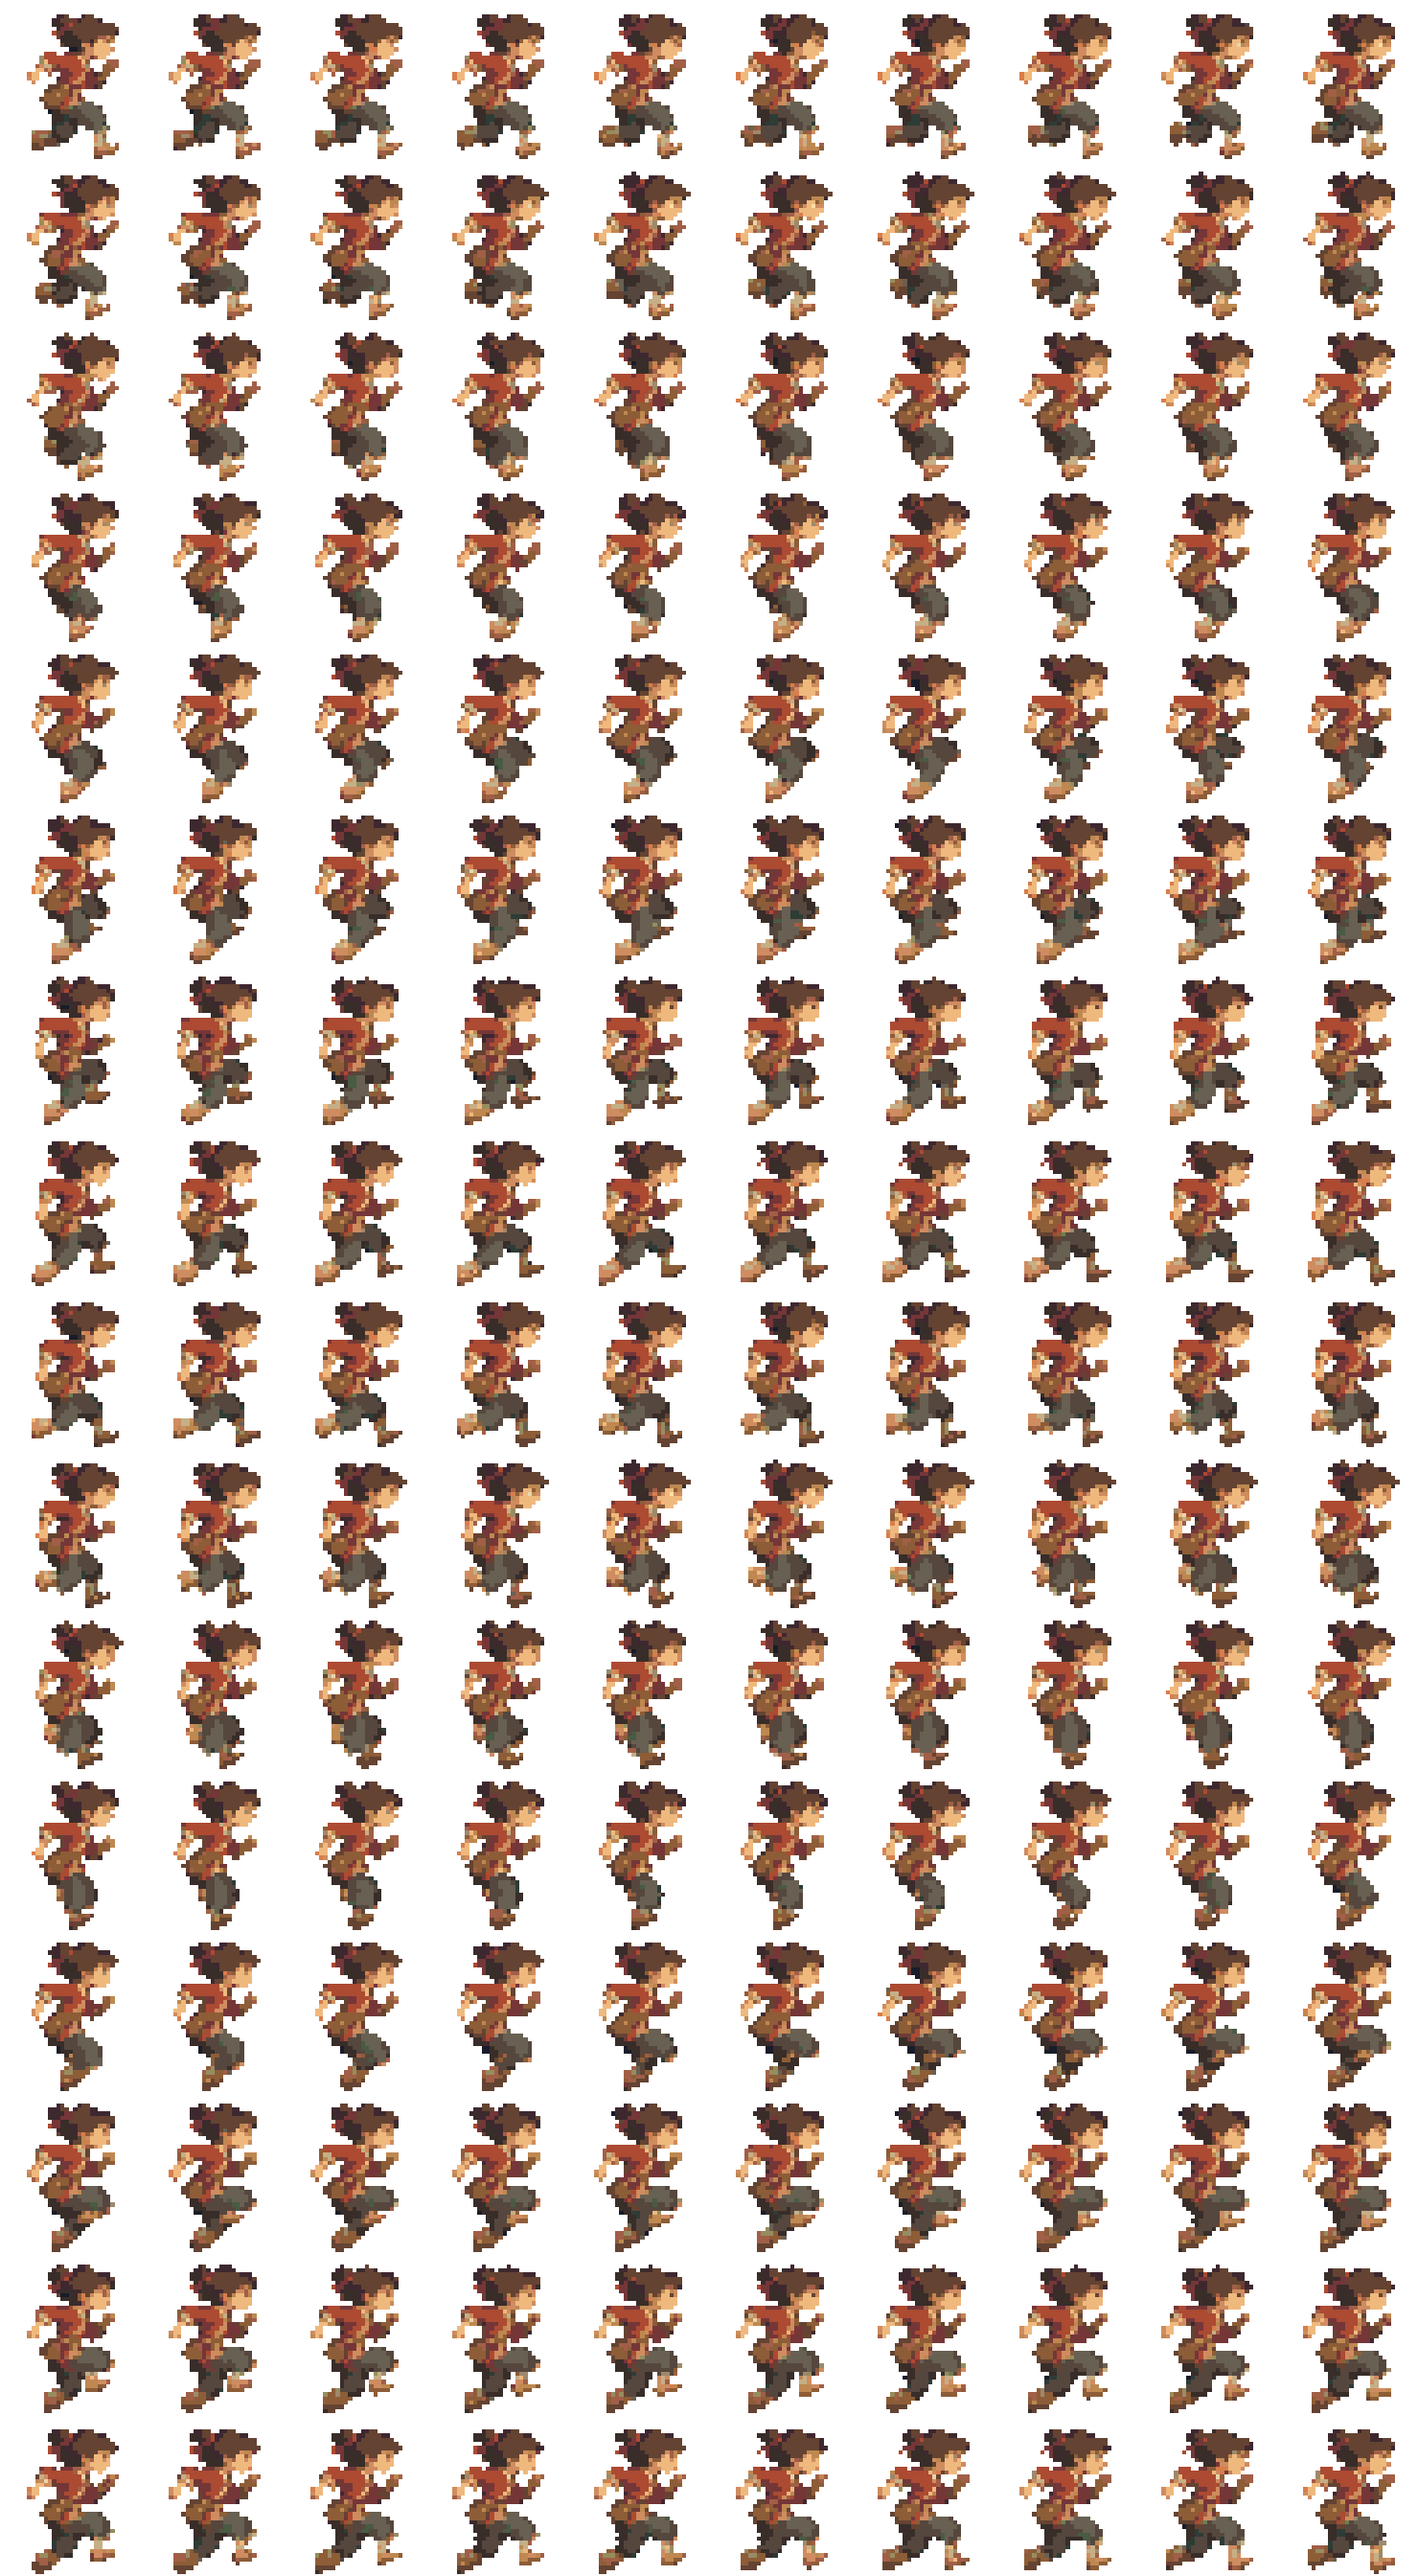
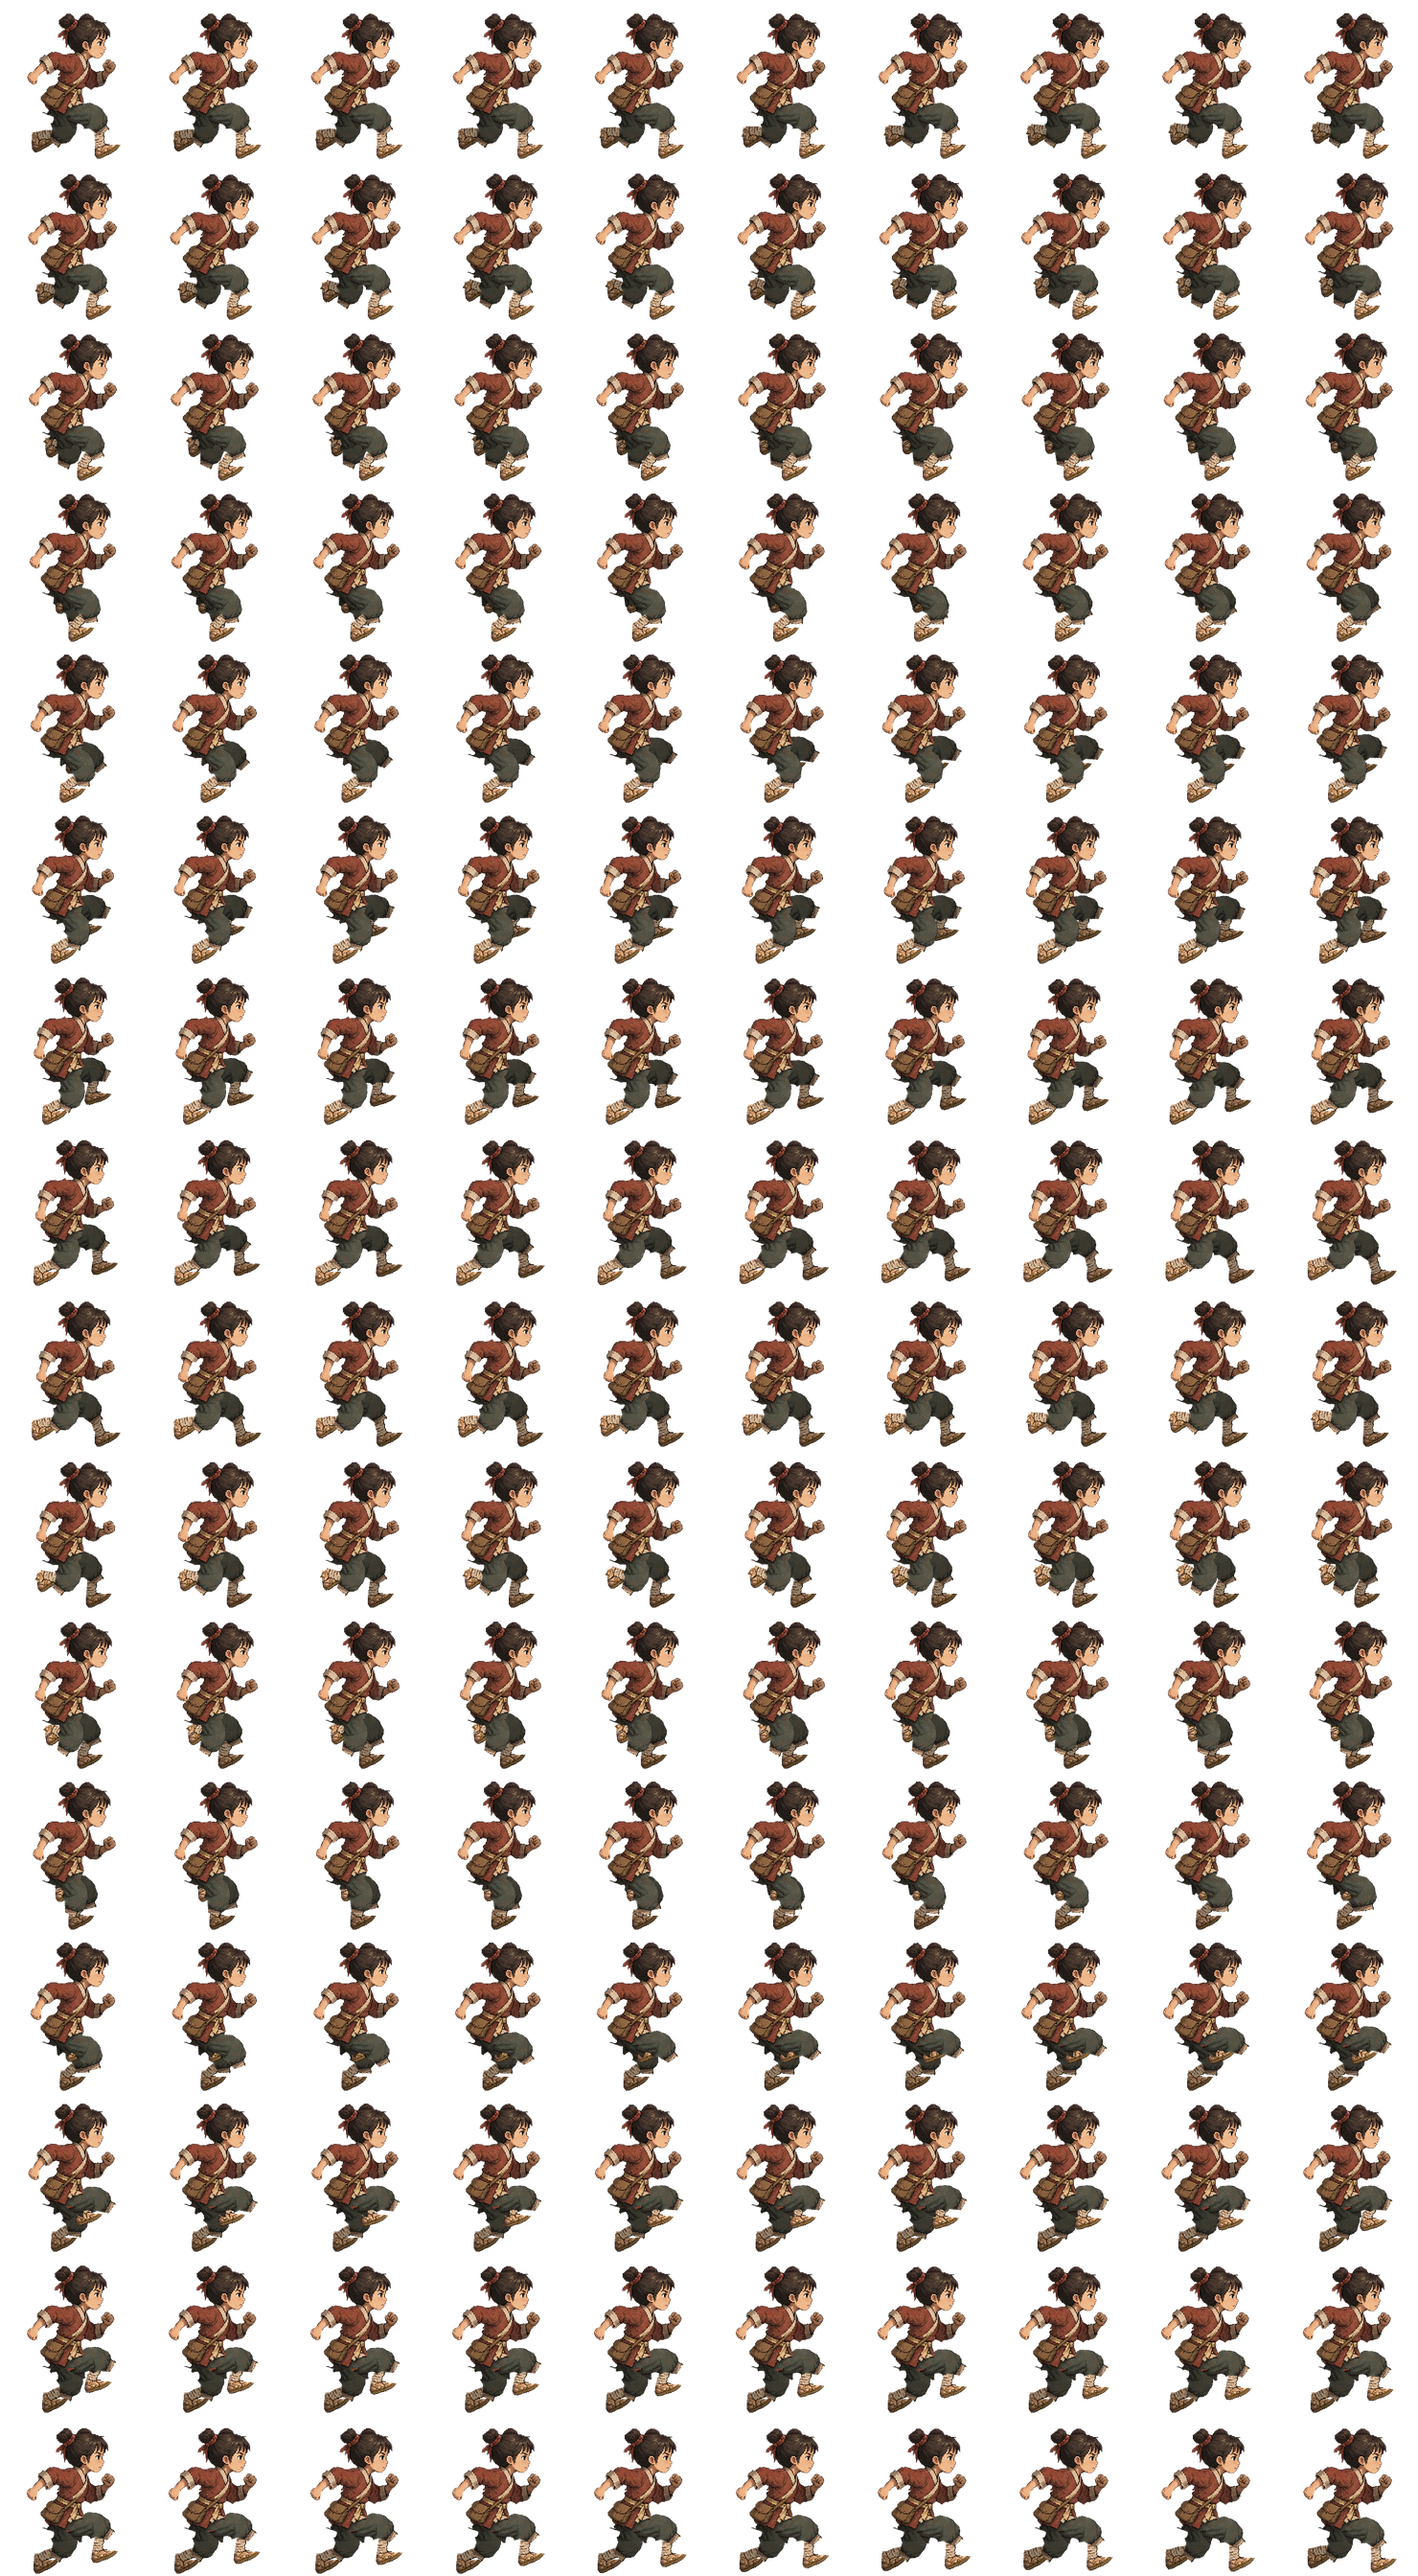
revert(art): 撤回人物粗颗粒像素版
撤回 923fc96，恢复 acad544 的全部角色素材和导出脚本。已核对文件树一致，并通过仓库检查与资产审计。

diff --git a/art-source/characters/build.py b/art-source/characters/build.py
@@ -11,8 +11,6 @@ from xml.etree import ElementTree as XML
 
 from PIL import Image, ImageChops, ImageDraw, ImageEnhance, ImageFilter
 
-from pixel_style import export_cast, paint_motion, paint_pose
-
 
 HERE = Path(__file__).resolve().parent
 ART = HERE.parents[1] / "assets" / "art"
@@ -216,14 +214,14 @@ def running_frames(image, rig, samples):
         yield canvas.resize(rig.cel, Image.Resampling.LANCZOS)
 
 
-def motion_atlas(name, frames, size, count=FRAMES, columns=COLUMNS, *, soldier):
+def motion_atlas(name, frames, size, count=FRAMES, columns=COLUMNS):
     w, h = size
     tile_w, tile_h = w + 2 * GUTTER, h + 2 * GUTTER
     atlas = Image.new("RGBA", (tile_w * columns, tile_h * ((count + columns - 1) // columns)))
     for index, frame in enumerate(frames):
         x = (index % columns) * tile_w + GUTTER
         y = (index // columns) * tile_h + GUTTER
-        atlas.paste(paint_motion(frame, soldier), (x, y))
+        atlas.paste(frame, (x, y))
     atlas.save(ART / (name + ".png"), optimize=True)
 
 
@@ -409,17 +407,14 @@ def main():
     )):
         cels[f"soldier_slide_{index}"] = pose_cel(trim(image), height, center, SLIDE_SIZE)
 
-    pose_atlas({key: paint_pose(key, cel) for key, cel in cels.items()})
+    pose_atlas(cels)
     for name, key, rig in (("zhoushu", "soldier", SOLDIER), ("xiaoman", "child", CHILD)):
         source = sources[f"{key}_run"]
         samples = ((index / FRAMES, 1) for index in range(FRAMES))
-        motion_atlas(f"{name}-run", running_frames(source, rig, samples),
-                     rig.cel, soldier=rig is SOLDIER)
+        motion_atlas(f"{name}-run", running_frames(source, rig, samples), rig.cel)
         motion_atlas(f"{name}-run-transition", transition_frames(source, rig, cels[f"{key}_idle"]),
-                     rig.cel, TRANSITION_LEVELS * TRANSITION_PHASES, TRANSITION_PHASES,
-                     soldier=rig is SOLDIER)
-    motion_atlas("zhoushu-slide", slide_frames(cels), SLIDE_SIZE, SLIDE_FRAMES, 8, soldier=True)
-    export_cast(ART)
+                     rig.cel, TRANSITION_LEVELS * TRANSITION_PHASES, TRANSITION_PHASES)
+    motion_atlas("zhoushu-slide", slide_frames(cels), SLIDE_SIZE, SLIDE_FRAMES, 8)
 
 
 if __name__ == "__main__":

diff --git a/art-source/SOURCES.md b/art-source/SOURCES.md
@@ -12,17 +12,13 @@
 
 本分支新增的场景和像素素材使用 Codex 内置 ImageGen 生成，按游戏规格裁切、校正脚底位置、整理帧并打包。补充动作以本工程生成的基础角色图作为参照。游戏运行时随包读取本地图像。Dora SSR 许可随官方发行包提供。
 
-## 实时人物与滑铲动作
+## 高清人物与滑铲动作
 
-[周戍原画](characters/zhoushu.png)、[小满原画](characters/xiaoman.png)和[补充姿势](characters/extra-poses.png)来自本作原有明朝角色稿。周戍、小满的常用姿势分别用 198 和 144 像素高的中间帧统一对齐。跑步使用同一原画的上身、手臂、裤腿、裹腿和布鞋分层，按脚步循环逐帧合成，每人 160 张。引擎按位移取帧并复用一个精灵节点。
+[周戍原画](characters/zhoushu.png)、[小满原画](characters/xiaoman.png)和[补充姿势](characters/extra-poses.png)来自本作原有明朝角色稿。站姿等常用姿势从原画重新导出，周戍由 66 提升至 198 像素高，小满由 48 提升至 144 像素高。跑步使用同一原画的上身、手臂、裤腿、裹腿和布鞋分层，按脚步循环逐帧合成，每人 160 张。引擎按位移取帧并复用一个精灵节点。
 
 [周戍滑铲原画](characters/zhoushu-slide.png)由 Codex 内置 ImageGen 参考原角色稿生成。按盔、肩、肘、膝和鞋跟等位置，在四张原画之间生成 64 张滑铲画面。低姿滑行时支撑鞋跟对齐地面，首尾接回站姿，整套沿用原地面冲刺计时。
 
-周戍和小满的起步与停步各有一张 96 帧过渡图集，由八个步相和十二档步幅合成。停步时保留脚步所在的步相并减小步幅，回到原站姿。
-
-新版实时人物沿用本作原画和动画骨架。周戍站姿在 44 像素高的网格上着色，小满站姿用 33 像素高的网格。铁盔、靛青短袄、双髻与红褐布袄用较大的明暗色块表现。头部略拓宽，放回引擎图集时沿用原裁切尺寸、脚底锚点和动作时序。
-
-[补充人物源图](characters/support-poses.png)收录普通铳手、拾荒者、林犬、精英敌兵、守塔人和牵手、背负等已有姿势。源图按原裁切位置叠放三张图集的角色区域，从上到下对应 `sprites.clip`、`actors_extra.clip` 和 `sprites_fe.clip`。用已安装 Pillow 的 Python 运行 `python -B art-source/characters/build.py`，可以重建实时人物图集和跑步、起停、滑铲帧。
+周戍和小满的起步与停步各有一张 96 帧过渡图集，由八个步相和十二档步幅合成。停步时保留脚步所在的步相并减小步幅，回到原站姿。使用已安装 Pillow 的 Python 运行 [build.py](characters/build.py) 重建角色图集、原跑步循环、起停过渡和滑铲。
 
 ```text
 Use case: stylized-concept.
